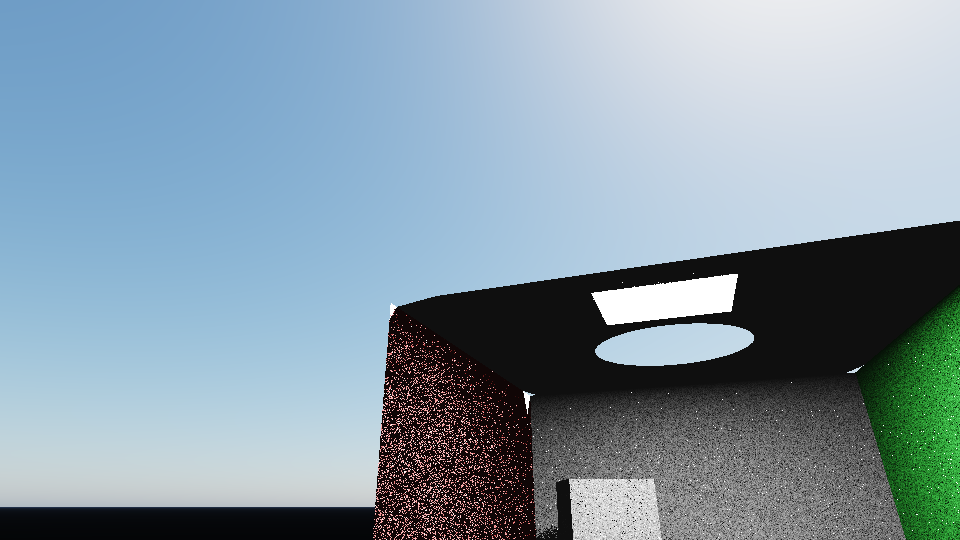
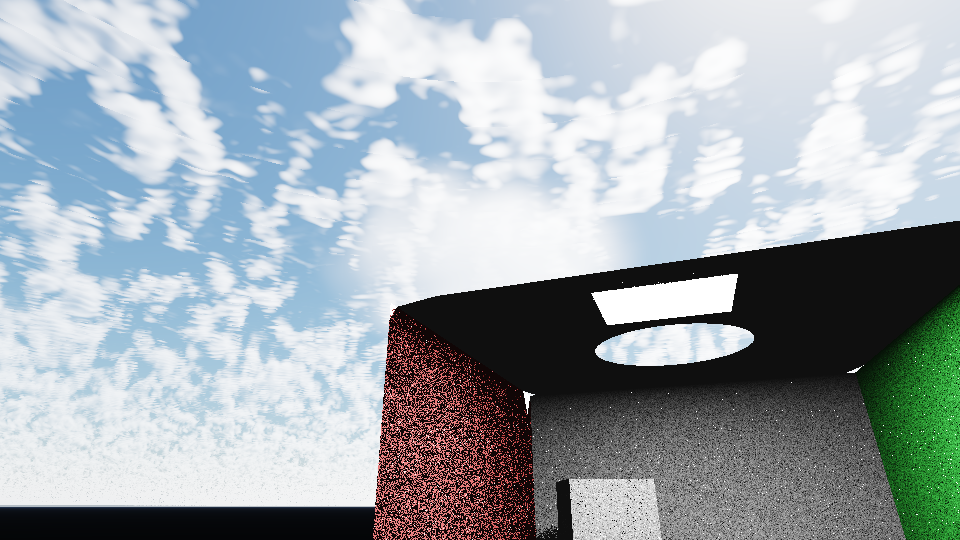
Include production volumetric weather in CPU ReSTIR proof

diff --git a/Scratchpad/CpuReSTIRReference.h b/Scratchpad/CpuReSTIRReference.h
@@ -15,6 +15,7 @@
 #include "GeometricRaster/TraversalIndex.h"
 #include "DisplayPresentation/SkyConstantRecord.h"
 #include "DisplayPresentation/AtmosphereModel.h"
+#include "DisplayPresentation/VolumetricMedia.h"
 #include "DisplayPresentation/FidelityClassifier.h"
 
 #include <algorithm>
@@ -38,6 +39,7 @@ public:
         Traversal.BuildBottomLevel(Level.QueryFlatTriangles(), false);
         BuildLights();
         BuildAtmosphere();
+        BuildWeather();
     }
 
     // The camera and output convention are the same as VisibilityRaster::Render and RayGeneration.slang:
@@ -69,7 +71,7 @@ public:
                 Hit Primary{};
                 if (!Trace(Eye, Dir, Primary))
                 {
-                    SkyAlong(Dir, Linear);
+                    SkyAlong(Eye, Dir, Linear);
                 }
                 else
                 {
@@ -221,12 +223,73 @@ private:
 
     static float Luma(const float C[3]) noexcept { return C[0] * 0.2126f + C[1] * 0.7152f + C[2] * 0.0722f; }
 
-    void SkyAlong(const float Direction[3], float Out[3]) const noexcept
+    void BuildWeather() noexcept
+    {
+        constexpr uint32_t kCloudLayer = 1u << 0u;
+        constexpr uint32_t kLocalCloud = 1u << 1u;
+        constexpr uint32_t kLocalFog = 1u << 2u;
+        constexpr uint32_t kCloudWind = 1u << 3u;
+        constexpr uint32_t kLocalCloudWind = 1u << 4u;
+        constexpr uint32_t kLocalFogWind = 1u << 5u;
+        Cloud.Enabled = (SkyRecord.Control[2] & kCloudLayer) != 0u;
+        Cloud.Type = static_cast<CloudTypeCategory>(SkyRecord.Control[3]);
+        Cloud.Base = SkyRecord.CloudLayer[0]; Cloud.Thickness = SkyRecord.CloudLayer[1];
+        Cloud.Coverage = SkyRecord.CloudLayer[2]; Cloud.Density = SkyRecord.CloudLayer[3];
+        Cloud.Scale = SkyRecord.CloudShape[0]; Cloud.CeilingMetres = SkyRecord.CloudShape[1];
+        Cloud.Anvil = SkyRecord.CloudShape[2]; Cloud.Anisotropy = SkyRecord.CloudShape[3];
+        Cloud.FollowWind = (SkyRecord.Control[2] & kCloudWind) != 0u;
+        for (int C = 0; C < 3; ++C) Cloud.Albedo[C] = SkyRecord.CloudAlbedo[C];
+        Wind.Speed = SkyRecord.CloudWind[0]; Wind.Bearing = SkyRecord.CloudWind[1];
+        Wind.Shear = SkyRecord.CloudWind[2]; Wind.Veer = SkyRecord.CloudWind[3];
+        CloudTime = SkyRecord.CloudAlbedo[3];
+        LocalCloud.Enabled = (SkyRecord.Control[2] & kLocalCloud) != 0u;
+        LocalCloud.FollowWind = (SkyRecord.Control[2] & kLocalCloudWind) != 0u;
+        LocalFog.Enabled = (SkyRecord.Control[2] & kLocalFog) != 0u;
+        LocalFog.FollowWind = (SkyRecord.Control[2] & kLocalFogWind) != 0u;
+        for (int C = 0; C < 3; ++C)
+        {
+            LocalCloud.Centre[C] = SkyRecord.LocalCloudCentre[C];
+            LocalCloud.HalfSize[C] = SkyRecord.LocalCloudHalfSize[C];
+            LocalFog.Centre[C] = SkyRecord.LocalFogCentre[C];
+            LocalFog.HalfSize[C] = SkyRecord.LocalFogHalfSize[C];
+        }
+        LocalCloud.Density = SkyRecord.LocalCloudParams[0]; LocalCloud.Coverage = SkyRecord.LocalCloudParams[1];
+        LocalCloud.Scale = SkyRecord.LocalCloudParams[2]; LocalCloud.Anisotropy = SkyRecord.LocalCloudParams[3];
+        LocalFog.Density = SkyRecord.LocalFogParams[0]; LocalFog.Coverage = SkyRecord.LocalFogParams[1];
+        LocalFog.Scale = SkyRecord.LocalFogParams[2]; LocalFog.Anisotropy = SkyRecord.LocalFogParams[3];
+        Budget.CloudSteps = std::max(1u, SkyRecord.CloudControl[0]);
+        Budget.LocalSteps = std::max(1u, SkyRecord.CloudControl[1]);
+        Budget.LightTaps = std::max(1u, SkyRecord.CloudControl[2]);
+    }
+
+    void CloudComposite(const float Origin[3], const float Direction[3], float MaximumDistance,
+                        float Radiance[3]) const noexcept
+    {
+        if (!(Cloud.Enabled || LocalCloud.Enabled || LocalFog.Enabled)) return;
+        const float Day = Clamp01((SkyRecord.SunDirection[3] + 12.0f) / 12.0f);
+        const float SunRadiance[3] = { Sun.Colour[0] * Day, Sun.Colour[1] * Day, Sun.Colour[2] * Day };
+        const float Ambient[3] = { Radiance[0], Radiance[1], Radiance[2] };
+        const VolumetricSample Media = VolumetricMedia::March(Cloud, LocalCloud, LocalFog, Wind, Budget,
+            Origin, Direction, MaximumDistance, Sun.Direction, SunRadiance, Ambient, CloudTime);
+        for (int C = 0; C < 3; ++C) Radiance[C] = Radiance[C] * Media.Transmittance + Media.Scatter[C];
+    }
+
+    float CloudTransmittance(const float Origin[3], const float Direction[3]) const noexcept
+    {
+        if (!(Cloud.Enabled || LocalCloud.Enabled || LocalFog.Enabled)) return 1.0f;
+        const float Zero[3] = { 0.0f, 0.0f, 0.0f };
+        const VolumetricSample Media = VolumetricMedia::March(Cloud, LocalCloud, LocalFog, Wind, Budget,
+            Origin, Direction, 10000.0f, Sun.Direction, Sun.Colour, Zero, CloudTime);
+        return Media.Transmittance;
+    }
+
+    void SkyAlong(const float Origin[3], const float Direction[3], float Out[3]) const noexcept
     {
         const AtmosphereSample Sample = AtmosphereModel::Integrate(Medium, Sun, SkyRecord.Planet[2], Direction,
                                                                     std::max(1u, SkyRecord.Control[0]),
                                                                     std::max(1u, SkyRecord.Control[1]));
         for (int C = 0; C < 3; ++C) Out[C] = Sample.Radiance[C];
+        CloudComposite(Origin, Direction, 1.0e6f, Out);
     }
 
     void MaterialColour(uint32_t Slot, float Out[3]) const noexcept
@@ -264,7 +327,8 @@ private:
             C.Light = kSun; for (int I = 0; I < 3; ++I) { C.Emit[I] = SkyRecord.SunRadiance[I]; C.Point[I] = H.Position[I] + SkyRecord.SunDirection[I] * 10000.0f; }
             const float CosSurface = std::fmax(0.0f, Dot(H.Normal, SkyRecord.SunDirection));
             C.SourcePdf = HaveLights ? 0.5f : 1.0f;
-            C.TargetValue = CosSurface * Luma(C.Emit) * (Luma(C.Emit) > 0.0f ? 1.0f : 0.0f) * 0.11f;
+            C.TargetValue = CosSurface * Luma(C.Emit) * (Luma(C.Emit) > 0.0f ? 1.0f : 0.0f)
+                         * 0.11f * CloudTransmittance(H.Position, SkyRecord.SunDirection);
             C.Weight = C.TargetValue / C.SourcePdf;
             return C;
         }
@@ -332,6 +396,15 @@ private:
             if (Trace(Origin, Bounce, BounceHit) && BounceHit.Material < Records.size() && Records[BounceHit.Material].EmissiveR + Records[BounceHit.Material].EmissiveG + Records[BounceHit.Material].EmissiveB > 0.0f)
                 for (int C = 0; C < 3; ++C) Out[C] += Albedo[C] * Records[BounceHit.Material].EmissiveR;
         }
+        // The production kernel composites the camera segment after direct lighting, the bounce and the bow.
+        // Reapply the same packed cloud/local-volume state to the CPU radiance before its transfer curve.
+        float ToSurface[3] = { H.Position[0] - Eye[0], H.Position[1] - Eye[1], H.Position[2] - Eye[2] };
+        const float SurfaceDistance = Length(ToSurface);
+        if (SurfaceDistance > 0.0f)
+        {
+            ToSurface[0] /= SurfaceDistance; ToSurface[1] /= SurfaceDistance; ToSurface[2] /= SurfaceDistance;
+            CloudComposite(Eye, ToSurface, SurfaceDistance, Out);
+        }
         // A small environment floor is the kernel's ambient-floor-off sky miss contribution for closed Cornell hits.
         for (int C = 0; C < 3; ++C) Out[C] += Albedo[C] * 0.008f;
     }
@@ -348,6 +421,12 @@ private:
     std::vector<Light> Lights;
     AtmosphereMedium Medium{};
     AtmosphereLight Sun{};
+    CloudLayerSettings Cloud{};
+    LocalVolumeSettings LocalCloud{};
+    LocalVolumeSettings LocalFog{};
+    WindSettings Wind{};
+    VolumetricBudget Budget{};
+    float CloudTime = 0.0f;
     uint32_t Candidates = 4u;
     uint32_t ExtraCandidates = 2u;
     bool GlobalIllumination = true;
